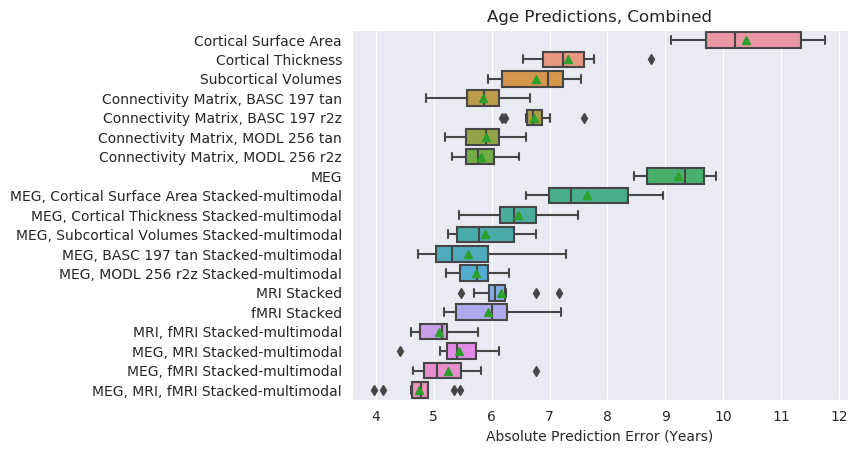
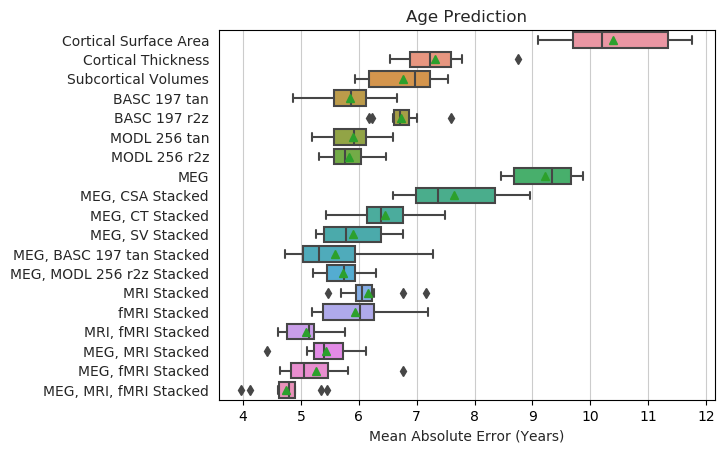
plot changes

diff --git a/scripts/plotting/summary_plots.py b/scripts/plotting/summary_plots.py
@@ -10,13 +10,34 @@ import seaborn as sns
 
 FIG_OUT_PATH = '../../data/figures/'
 PREDICTIONS = '../../data/age_prediction_exp_data.h5'
-OUT_FTYPE = 'png'
+OUT_FTYPE = 'pdf'
 
 out_folder = os.path.join(FIG_OUT_PATH, 'boxplots')
 
 all_regressions = pd.read_hdf(PREDICTIONS, key='regression')
 all_r2_scores = pd.read_hdf(PREDICTIONS, key='r2')
 
+key_labels = {'Cortical Surface Area': 'Cortical Surface Area',
+            'Cortical Thickness': 'Cortical Thickness',
+            'Subcortical Volumes': 'Subcortical Volumes',
+            'Connectivity Matrix, BASC 197 tan': 'BASC 197 tan',
+            'Connectivity Matrix, MODL 256 tan': 'MODL 256 tan',
+            'Connectivity Matrix, MODL 256 r2z': 'MODL 256 r2z',
+            'Connectivity Matrix, BASC 197 r2z': 'BASC 197 r2z',
+            'MEG': 'MEG',
+            'MEG, Cortical Surface Area Stacked-multimodal': 'MEG, CSA Stacked',
+            'MEG, Cortical Thickness Stacked-multimodal': 'MEG, CT Stacked',
+            'MEG, Subcortical Volumes Stacked-multimodal': 'MEG, SV Stacked',
+            'MEG, BASC 197 tan Stacked-multimodal': 'MEG, BASC 197 tan Stacked',
+            'MEG, MODL 256 r2z Stacked-multimodal': 'MEG, MODL 256 r2z Stacked',
+            'MRI Stacked': 'MRI Stacked',
+            'fMRI Stacked': 'fMRI Stacked',
+            'MRI, fMRI Stacked-multimodal': 'MRI, fMRI Stacked',
+            'MEG, MRI Stacked-multimodal': 'MEG, MRI Stacked',
+            'MEG, fMRI Stacked-multimodal': 'MEG, fMRI Stacked',
+            'MEG, MRI, fMRI Stacked-multimodal': 'MEG, MRI, fMRI Stacked'}
+
+out_keys = (key_labels[key] for key in all_regressions.index)
 # save mae, std to a csv file
 summary = pd.DataFrame(index=all_regressions.index,
                        columns=['mae', 'std'], dtype=float)
@@ -25,11 +46,7 @@ summary['std'] = all_regressions.std(axis=1)
 summary['r2'] = all_r2_scores.mean(axis=1)
 summary.to_csv('../../data/summary.csv')
 
-# Plot summary boxplot
-keys = all_regressions.index
-
-plot_keys = (key.replace('Stacked-multimodal', 'Stacked') for key in keys)
-all_regressions.index = plot_keys
+all_regressions.index = out_keys
 
 title = 'Age Prediction'
 sns.set_style('whitegrid')

diff --git a/scripts/plotting/trunc_fmri.py b/scripts/plotting/trunc_fmri.py
@@ -26,7 +26,7 @@ name_map = {'basc197': 'BASC 197', 'modl256': 'MODL 256',
 plt.figure()
 
 for a, c in product(atlases, connectivities):
-    label = f'Connectivity Matrix, {name_map[a]} {name_map[c]}'
+    label = f'{name_map[a]} {name_map[c]}'
     data = all_regressions.loc[(all_regressions.connect == c) &
                                (all_regressions.atlas == a), 'MAE']
     plt.plot(durations, data, '.-', label=label)
